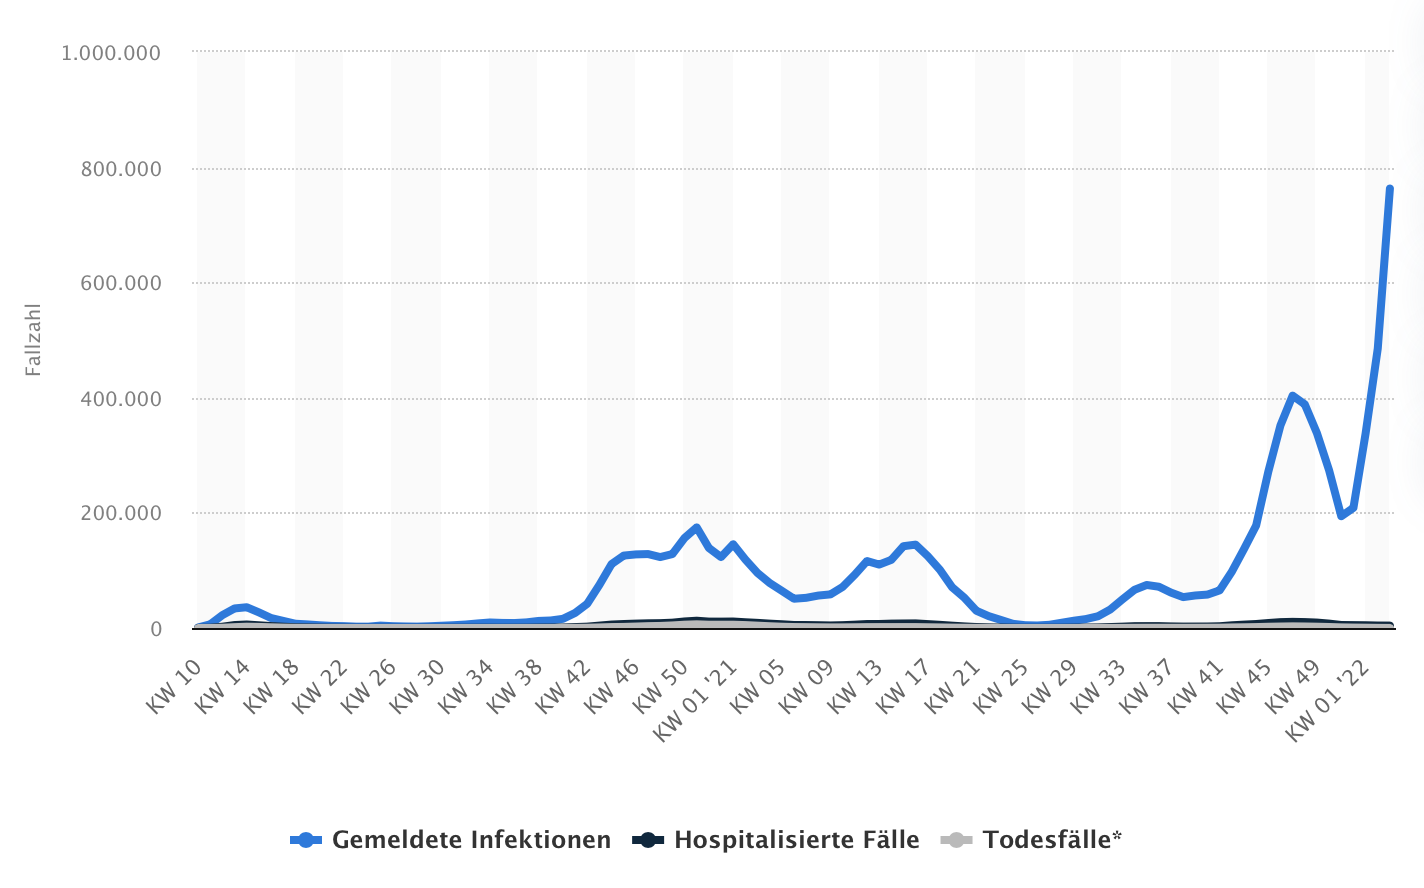
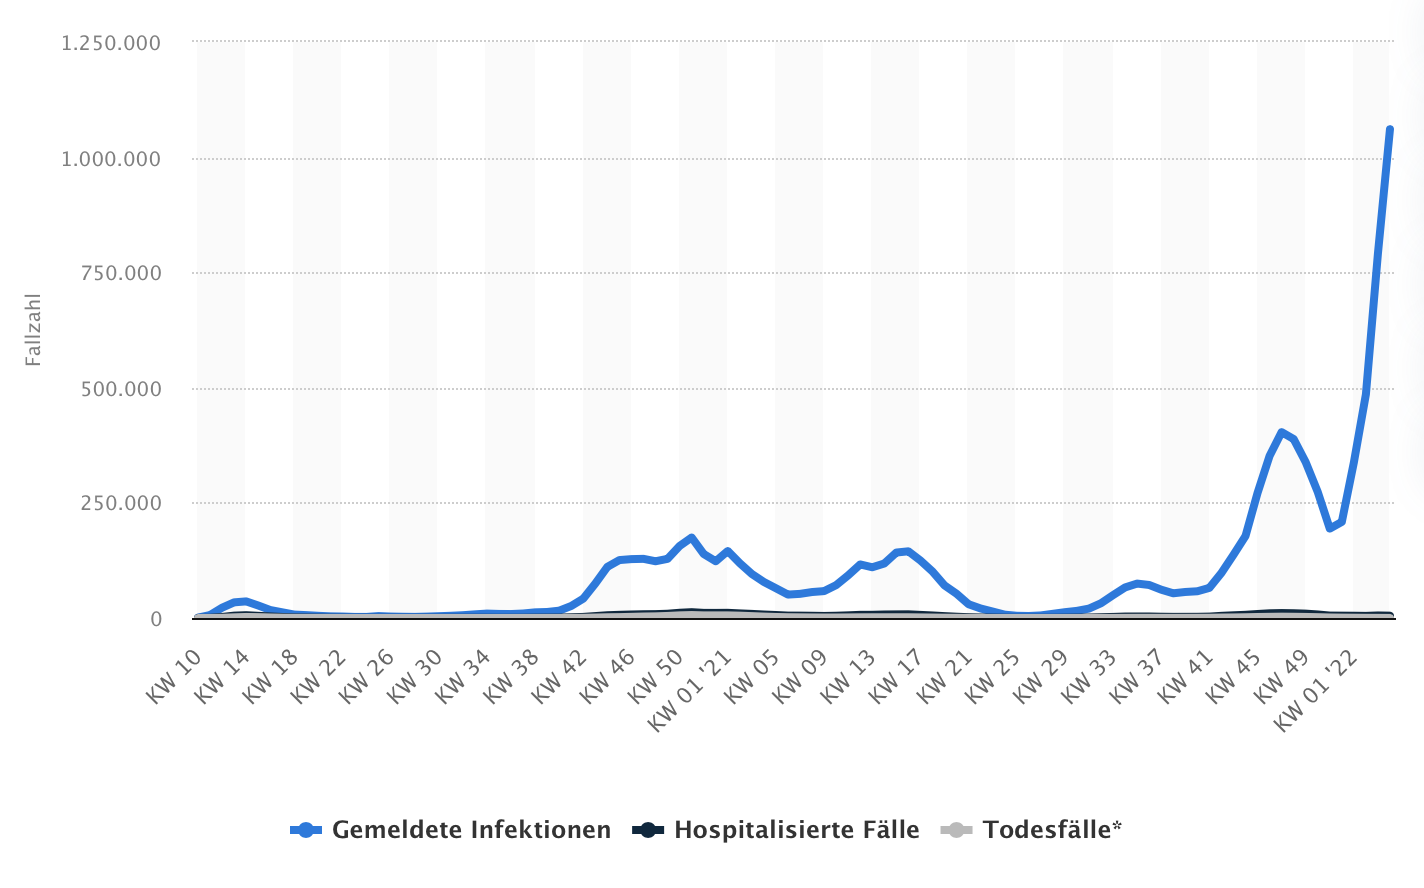
* Update Bilder und Tabelle

diff --git a/README.md b/README.md
@@ -1691,13 +1691,16 @@ Es mußte schließlich schnell und unbürokratisch geholfen werden.
 
 ### Big Virus ###
 
-Die folgende Abbildung zeigt die in Deutschland im Zusammenhang mit COVID-19 gemeldeten Infektionen,
-hospitalisierten Patienten und Todesfälle nach Kalenderwoche seit März 2020 basierend auf den Daten
-des RKI (Quelle:
+Die folgenden Abbildungen zeigen die in Deutschland im Zusammenhang mit COVID-19 gemeldeten
+Infektionen, hospitalisierten Patienten und Todesfälle nach Kalenderwoche seit März 2020 basierend
+auf den Daten des RKI (Quelle:
 <https://de.statista.com/statistik/daten/studie/1190592/umfrage/coronainfektionen-und-hospitalisierte-faelle-in-deutschland-nach-meldewoche/>,
-Stand: 27.1.2022).
+Stand: 30.1.2022) sowie die Verbreitung der Varianten nach Kalenderwoche seit April 2021 (Quelle:
+<https://de.statista.com/statistik/daten/studie/1208627/umfrage/ausbreitung-von-corona-mutationen-in-deutschland/>,
+Stand: 30.1.2022).
 
 <a href="images/FaelleProWoche.png"><img src="images/FaelleProWoche.png" width="700"></a>
+<a href="images/VariantenProWoche.png"><img src="images/VariantenProWoche.png" width="700"></a>
 
 Deutlich sieht man die nur geringe Korrelation zwischen Meldeinzidenz und Hospitalisierungen bzw.
 Todesfällen, was trotzdem niemanden daran hindert die Meldeinzidenzen täglich in den Nachrichten zu
@@ -1706,12 +1709,12 @@ wurde. Zur besseren Vergleichbarkeit sind die jeweiligen Maxima der Wellen in de
 zusammengefaßt:
 
 | Woche      | Variante | Gemeldete Infektionen | Hospitalisierungen | Todesfälle | Mortalität |
-|------------|----------|----------------------:|-------------------:|-----------:|-----------:|
-| KW 51 2020 | Wildtyp  |               174.701 |             12.653 |      6.430 |      3,68% |
-| KW 16 2021 | Alpha    |               144.749 |              8.019 |      1.604 |      1,11% |
-| KW 35 2021 | Delta    |                74.692 |              3.253 |        420 |      0,56% |
-| KW 47 2021 | Delta    |               403.430 |             10.691 |      2.868 |      0,71% |
-| KW 03 2022 | 15% Delta, 85% Omikron | 763.027 |              4.214 |        146 |      0,02% |
+|------------|---------------|----------------------:|-------------------:|-----------:|-----------:|
+| KW 51 2020 | Wildtyp                   |   174.695 |             12.652 |      6.432 |     3,681% |
+| KW 16 2021 | Alpha, Rest Wildtyp       |   144.748 |              8.019 |      1.605 |     1,109% |
+| KW 35 2021 | Delta                     |    74.691 |              3.253 |        421 |     0,564% |
+| KW 47 2021 | Delta                     |   403.424 |             10.754 |      2.911 |     0,722% |
+| KW 04 2022 | 97,8% Omikron, 1,5% Delta | 1.060.988 |              5.057 |        171 |     0,016% |
 
 Die dem RKI gemeldeten Infektionen entsprechen _nicht_ der tatsächlichen Menge an Infektionen in
 Deutschland, da symptomlose bzw. leicht symptomatische Infektionen ohne Test unerkannt bleiben,

diff --git a/07-Ende.md b/07-Ende.md
@@ -137,13 +137,16 @@ Es mußte schließlich schnell und unbürokratisch geholfen werden.
 
 ### Big Virus ###
 
-Die folgende Abbildung zeigt die in Deutschland im Zusammenhang mit COVID-19 gemeldeten Infektionen,
-hospitalisierten Patienten und Todesfälle nach Kalenderwoche seit März 2020 basierend auf den Daten
-des RKI (Quelle:
+Die folgenden Abbildungen zeigen die in Deutschland im Zusammenhang mit COVID-19 gemeldeten
+Infektionen, hospitalisierten Patienten und Todesfälle nach Kalenderwoche seit März 2020 basierend
+auf den Daten des RKI (Quelle:
 <https://de.statista.com/statistik/daten/studie/1190592/umfrage/coronainfektionen-und-hospitalisierte-faelle-in-deutschland-nach-meldewoche/>,
-Stand: 27.1.2022).
+Stand: 30.1.2022) sowie die Verbreitung der Varianten nach Kalenderwoche seit April 2021 (Quelle:
+<https://de.statista.com/statistik/daten/studie/1208627/umfrage/ausbreitung-von-corona-mutationen-in-deutschland/>,
+Stand: 30.1.2022).
 
 <a href="images/FaelleProWoche.png"><img src="images/FaelleProWoche.png" width="700"></a>
+<a href="images/VariantenProWoche.png"><img src="images/VariantenProWoche.png" width="700"></a>
 
 Deutlich sieht man die nur geringe Korrelation zwischen Meldeinzidenz und Hospitalisierungen bzw.
 Todesfällen, was trotzdem niemanden daran hindert die Meldeinzidenzen täglich in den Nachrichten zu
@@ -152,12 +155,12 @@ wurde. Zur besseren Vergleichbarkeit sind die jeweiligen Maxima der Wellen in de
 zusammengefaßt:
 
 | Woche      | Variante | Gemeldete Infektionen | Hospitalisierungen | Todesfälle | Mortalität |
-|------------|----------|----------------------:|-------------------:|-----------:|-----------:|
-| KW 51 2020 | Wildtyp  |               174.701 |             12.653 |      6.430 |      3,68% |
-| KW 16 2021 | Alpha    |               144.749 |              8.019 |      1.604 |      1,11% |
-| KW 35 2021 | Delta    |                74.692 |              3.253 |        420 |      0,56% |
-| KW 47 2021 | Delta    |               403.430 |             10.691 |      2.868 |      0,71% |
-| KW 03 2022 | 15% Delta, 85% Omikron | 763.027 |              4.214 |        146 |      0,02% |
+|------------|---------------|----------------------:|-------------------:|-----------:|-----------:|
+| KW 51 2020 | Wildtyp                   |   174.695 |             12.652 |      6.432 |     3,681% |
+| KW 16 2021 | Alpha, Rest Wildtyp       |   144.748 |              8.019 |      1.605 |     1,109% |
+| KW 35 2021 | Delta                     |    74.691 |              3.253 |        421 |     0,564% |
+| KW 47 2021 | Delta                     |   403.424 |             10.754 |      2.911 |     0,722% |
+| KW 04 2022 | 97,8% Omikron, 1,5% Delta | 1.060.988 |              5.057 |        171 |     0,016% |
 
 Die dem RKI gemeldeten Infektionen entsprechen _nicht_ der tatsächlichen Menge an Infektionen in
 Deutschland, da symptomlose bzw. leicht symptomatische Infektionen ohne Test unerkannt bleiben,
